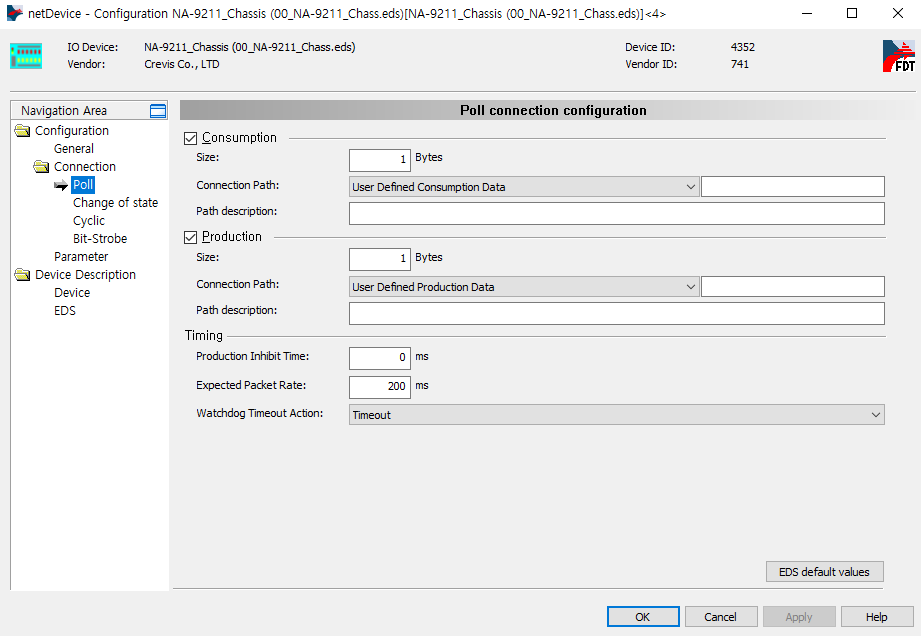
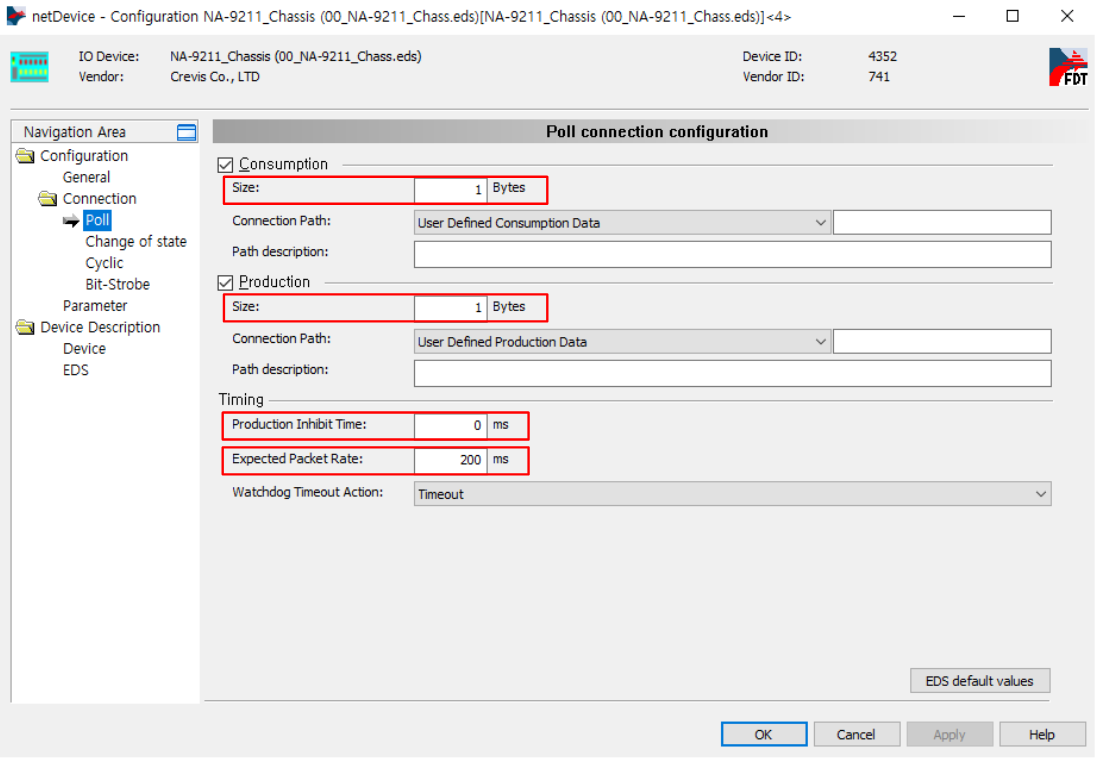
Sycon help 기능 매뉴얼 추가

diff --git a/3-cifx-pci-settings-industrial-communication/3-7-DeviceNet/3-7-2-Settings-DeviceNet-Master.md b/3-cifx-pci-settings-industrial-communication/3-7-DeviceNet/3-7-2-Settings-DeviceNet-Master.md
@@ -1,6 +1,12 @@
 # 3.7.2 DeviceNet Master 설정
 
-“[**3.1 CIFX PCI 슬롯 설정**](../../3-cifx-pci-settings-industrial-communication/3-1-Settings-firmware.md)" 및 "[**3.2 SYCON.NET 설정**](../../3-cifx-pci-settings-industrial-communication/3-2-Settings-SYCON.md)" 절차를 따라 설정 이후 아래 방법을 진행해 주십시오.
+“[**3.1 CIFX PCI 슬롯 설정**](../../3-cifx-pci-settings-industrial-communication/3-1-Settings-firmware.md)" 및 "[**3.2 SYCON.NET 설정**](../../3-cifx-pci-settings-industrial-communication/3-2-Settings-SYCON/README.md)" 절차를 따라 설정 이후 아래 방법을 진행해 주십시오.
+
+<br>
+
+{% hint style="info" %}
+\.      SYCON.net 이용 중 매뉴얼에 설명이 부족한 부분은  ""[**3.2 SYCON.NET 도움말**](../../3-cifx-pci-settings-industrial-communication/3-2-Settings-SYCON/3-2-1-Help-SYCON.md)"" 기능을 참고해 주십시오.
+{% endhint %}
 
 <br>
 
@@ -195,6 +201,29 @@
 \.      Output : ST-2318 (1 Byte)  
 \.      Input : ST-1218 (1 Byte)  
 {% endhint %}
+
+<br>
+
+{% hint style="info" %}
+\.      IO 업데이트 주기 설정 (Production Inhibit TIme)
+
+\.      슬레이브 장치의 IO 데이터 업데이트 주기 설정 (ms)
+\.      예시) 10ms  :  10ms 주기로 IO 데이터를 최신화
+\.      예시) 0ms   :  Slave가 가능한 가장 빠른 시간 안에 IO 데이터 최신화
+
+\.      업데이트 주기가 짧을 수록 Slave 장치에 걸리는 부하가 커질 수 있습니다. (각 Slave 별 사양 확인 필요)
+{% endhint %}
+
+<br>
+
+{% hint style="info" %}
+\.      IO 업데이트 최대 허용 시간 설정 (Expected Packet Rate)
+
+\.      슬레이브 장치의 IO 업데이트를 허용하는 최대 시간 설정 (Timeout)
+\.      예시) 200ms :  200ms 내에 IO 데이터를 최신화 되지 않으면 Watchdog Timeout Action 실헹
+{% endhint %}
+
+<br>
 
 ![[그림 3.7.2-21 Slave Configuration]](<../../_assets/3-cifx-pci-settings-industrial-communication/3.7-DeviceNet/2-Master_setting/image_21.png>)
 

diff --git a/SUMMARY.md b/SUMMARY.md
@@ -14,11 +14,12 @@
 * [3.  CIFX PCI 통신 설정](3-cifx-pci-settings-industrial-communication/README.md)
   * [3.1 CIFX PCI 슬롯 설정](3-cifx-pci-settings-industrial-communication/3-1-Settings-firmware.md)
 
-  * [3.2 SYCON.NET 설정](3-cifx-pci-settings-industrial-communication/3-2-Settings-SYCON.md)
+  * [3.2 SYCON.NET 설정](3-cifx-pci-settings-industrial-communication/3-2-Settings-SYCON/README.md)
+    * [3.2.1 SYCON.NET 도움말](3-cifx-pci-settings-industrial-communication/3-2-Settings-SYCON/3-2-1-Help-SYCON.md)
 
   * [3.3 EtherNet/IP](3-cifx-pci-settings-industrial-communication/3-3-EtherNet-IP/README.md)
     * [3.3.1 EtherNet/IP Scanner 사양](3-cifx-pci-settings-industrial-communication/3-3-EtherNet-IP/3-3-1-Specification-EtherNet-IP-Scanner.md)
-    *  [3.3.2 EtherNet/IP Scanner 설정](3-cifx-pci-settings-industrial-communication/3-3-EtherNet-IP/3-3-2-Settings-EtherNet-IP-Scanner.md)
+    * [3.3.2 EtherNet/IP Scanner 설정](3-cifx-pci-settings-industrial-communication/3-3-EtherNet-IP/3-3-2-Settings-EtherNet-IP-Scanner.md)
     * [3.3.3 EtherNet/IP Adapter 사양](3-cifx-pci-settings-industrial-communication/3-3-EtherNet-IP/3-3-3-Specification-EtherNet-IP-Adapter.md)
     * [3.3.4 EtherNet/IP Adapter 설정](3-cifx-pci-settings-industrial-communication/3-3-EtherNet-IP/3-3-4-Settings-EtherNet-IP-Adapter.md)
     * [3.3.5 EtherNet/IP 에러 조치](3-cifx-pci-settings-industrial-communication/3-3-EtherNet-IP/3-3-5-Error-EtherNet-IP.md)

diff --git a/3-cifx-pci-settings-industrial-communication/3-4-PROFINET-IO/3-4-2-Settings-PROFINET-IO-Controller.md b/3-cifx-pci-settings-industrial-communication/3-4-PROFINET-IO/3-4-2-Settings-PROFINET-IO-Controller.md
@@ -1,7 +1,12 @@
 # 3.4.2 PROFINET IO Controller 설정
 
-“[**3.1 CIFX PCI 슬롯 설정**](../../3-cifx-pci-settings-industrial-communication/3-1-Settings-firmware.md)" 및 "[**3.2 SYCON.NET 설정**](../../3-cifx-pci-settings-industrial-communication/3-2-Settings-SYCON.md)" 절차를 따라 설정 이후 아래 방법을 진행해 주십시오.
+“[**3.1 CIFX PCI 슬롯 설정**](../../3-cifx-pci-settings-industrial-communication/3-1-Settings-firmware.md)" 및 "[**3.2 SYCON.NET 설정**](../../3-cifx-pci-settings-industrial-communication/3-2-Settings-SYCON/README.md)" 절차를 따라 설정 이후 아래 방법을 진행해 주십시오.
 
+<br>
+
+{% hint style="info" %}
+\.      SYCON.net 이용 중 매뉴얼에 설명이 부족한 부분은  ""[**3.2 SYCON.NET 도움말**](../../3-cifx-pci-settings-industrial-communication/3-2-Settings-SYCON/3-2-1-Help-SYCON.md)"" 기능을 참고해 주십시오.
+{% endhint %}
 
 <br>
 

diff --git a/3-cifx-pci-settings-industrial-communication/3-6-PROFIBUS-DP/3-6-2-Settings-PROFIBUS-DP-Master.md b/3-cifx-pci-settings-industrial-communication/3-6-PROFIBUS-DP/3-6-2-Settings-PROFIBUS-DP-Master.md
@@ -1,8 +1,13 @@
 # 3.6.2 PROFIBUS-DP Master 설정
 
 
-“[**3.1 CIFX PCI 슬롯 설정**](../../3-cifx-pci-settings-industrial-communication/3-1-Settings-firmware.md)" 및 "[**3.2 SYCON.NET 설정**](../../3-cifx-pci-settings-industrial-communication/3-2-Settings-SYCON.md)" 절차를 따라 설정 이후 아래 방법을 진행해 주십시오.
+“[**3.1 CIFX PCI 슬롯 설정**](../../3-cifx-pci-settings-industrial-communication/3-1-Settings-firmware.md)" 및 "[**3.2 SYCON.NET 설정**](../../3-cifx-pci-settings-industrial-communication/3-2-Settings-SYCON/README.md)" 절차를 따라 설정 이후 아래 방법을 진행해 주십시오.
 
+<br>
+
+{% hint style="info" %}
+\.      SYCON.net 이용 중 매뉴얼에 설명이 부족한 부분은  ""[**3.2 SYCON.NET 도움말**](../../3-cifx-pci-settings-industrial-communication/3-2-Settings-SYCON/3-2-1-Help-SYCON.md)"" 기능을 참고해 주십시오.
+{% endhint %}
 
 <br>
 

diff --git a/3-cifx-pci-settings-industrial-communication/3-3-EtherNet-IP/3-3-2-Settings-EtherNet-IP-Scanner.md b/3-cifx-pci-settings-industrial-communication/3-3-EtherNet-IP/3-3-2-Settings-EtherNet-IP-Scanner.md
@@ -1,7 +1,12 @@
 # 3.3.2 EtherNet/IP Scanner 설정
 
-“[**3.1 CIFX PCI 슬롯 설정**](../../3-cifx-pci-settings-industrial-communication/3-1-Settings-firmware.md)" 및 "[**3.2 SYCON.NET 설정**](../../3-cifx-pci-settings-industrial-communication/3-2-Settings-SYCON.md)" 절차를 따라 설정 이후 아래 방법을 진행해 주십시오.
+“[**3.1 CIFX PCI 슬롯 설정**](../../3-cifx-pci-settings-industrial-communication/3-1-Settings-firmware.md)" 및 "[**3.2 SYCON.NET 설정**](../../3-cifx-pci-settings-industrial-communication/3-2-Settings-SYCON/README.md)" 절차를 따라 설정 이후 아래 방법을 진행해 주십시오.
 
+<br>
+
+{% hint style="info" %}
+\.      SYCON.net 이용 중 매뉴얼에 설명이 부족한 부분은  ""[**3.2 SYCON.NET 도움말**](../../3-cifx-pci-settings-industrial-communication/3-2-Settings-SYCON/3-2-1-Help-SYCON.md)"" 기능을 참고해 주십시오.
+{% endhint %}
 
 <br>
 

diff --git a/3-cifx-pci-settings-industrial-communication/3-5-EtherCAT/3-5-2-Settings-EtherCAT-Master.md b/3-cifx-pci-settings-industrial-communication/3-5-EtherCAT/3-5-2-Settings-EtherCAT-Master.md
@@ -1,7 +1,12 @@
 # 3.5.2 EtherCAT Master 설정
 
-“[**3.1 CIFX PCI 슬롯 설정**](../../3-cifx-pci-settings-industrial-communication/3-1-Settings-firmware.md)" 및 "[**3.2 SYCON.NET 설정**](../../3-cifx-pci-settings-industrial-communication/3-2-Settings-SYCON.md)" 절차를 따라 설정 이후 아래 방법을 진행해 주십시오.
+“[**3.1 CIFX PCI 슬롯 설정**](../../3-cifx-pci-settings-industrial-communication/3-1-Settings-firmware.md)" 및 "[**3.2 SYCON.NET 설정**](../../3-cifx-pci-settings-industrial-communication/3-2-Settings-SYCON/README.md)" 절차를 따라 설정 이후 아래 방법을 진행해 주십시오.
 
+<br>
+
+{% hint style="info" %}
+\.      SYCON.net 이용 중 매뉴얼에 설명이 부족한 부분은  ""[**3.2 SYCON.NET 도움말**](../../3-cifx-pci-settings-industrial-communication/3-2-Settings-SYCON/3-2-1-Help-SYCON.md)"" 기능을 참고해 주십시오.
+{% endhint %}
 
 <br>
 

diff --git a/3-cifx-pci-settings-industrial-communication/3-2-Settings-SYCON/3-2-1-Help-SYCON.md b/3-cifx-pci-settings-industrial-communication/3-2-Settings-SYCON/3-2-1-Help-SYCON.md
@@ -1,0 +1,17 @@
+# 3.2.1 SYCON.NET 도움말
+
+
+
+<br>
+
+##### SYCON.net 이용 중 매뉴얼에 설명이 부족한 부분은 아래 "help" 기능을 참고해 주십시오.
+
+<br>
+
+![[그림 3.2.1-1 SYCON.net help]](<../../_assets/3-cifx-pci-settings-industrial-communication/3.2-Setting-SYCON/3-2-1-Help-SYCON/image_1.png>) 
+
+<br>
+
+![[그림 3.2.1-2 SYCON.net help]](<../../_assets/3-cifx-pci-settings-industrial-communication/3.2-Setting-SYCON/3-2-1-Help-SYCON/image_2.png>) 
+
+<br>
